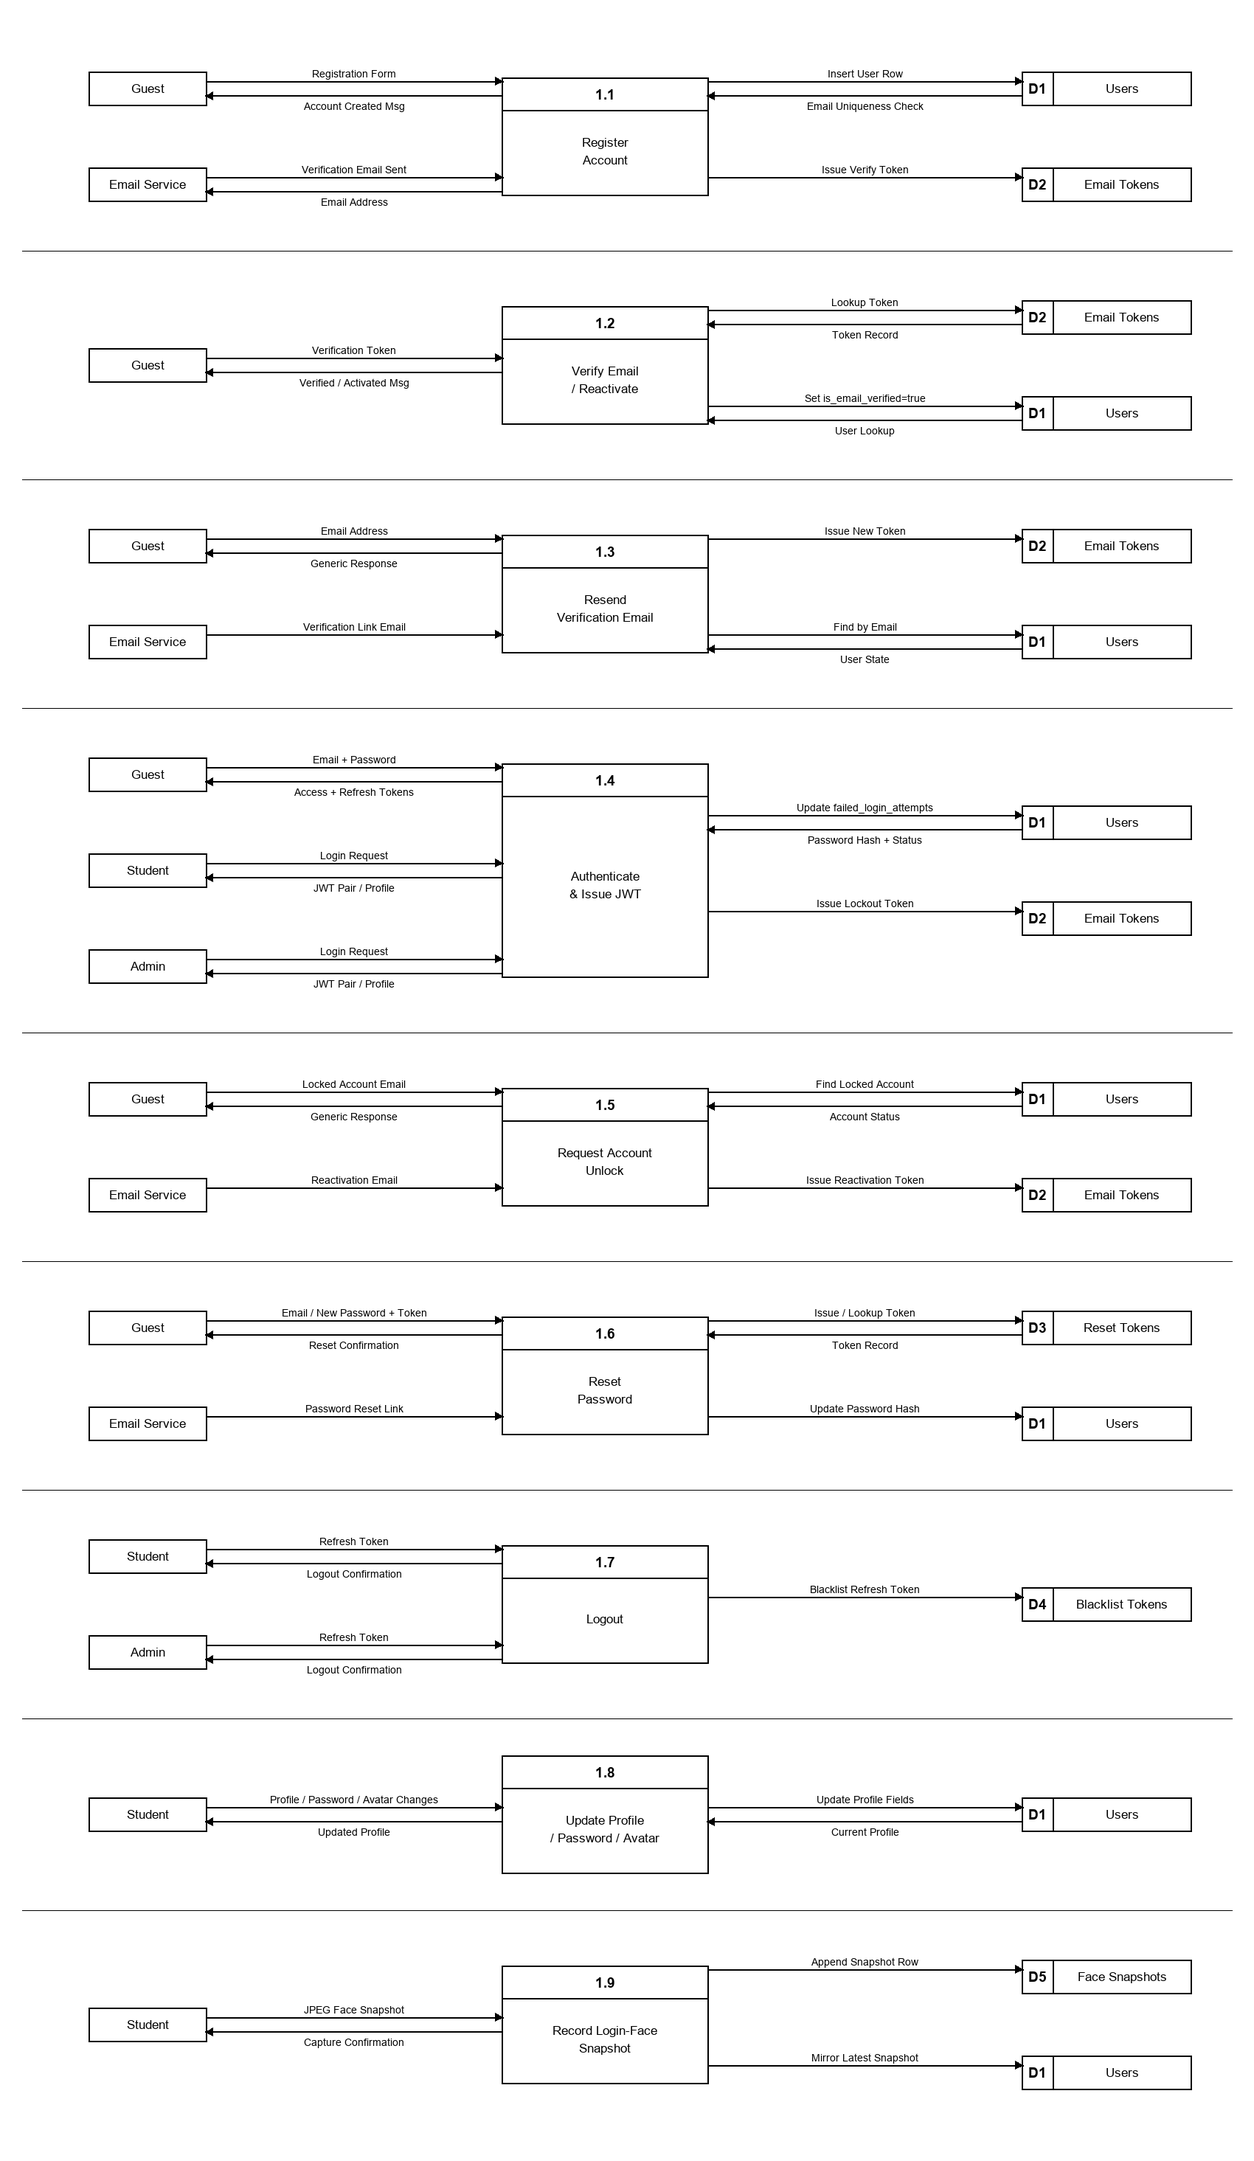
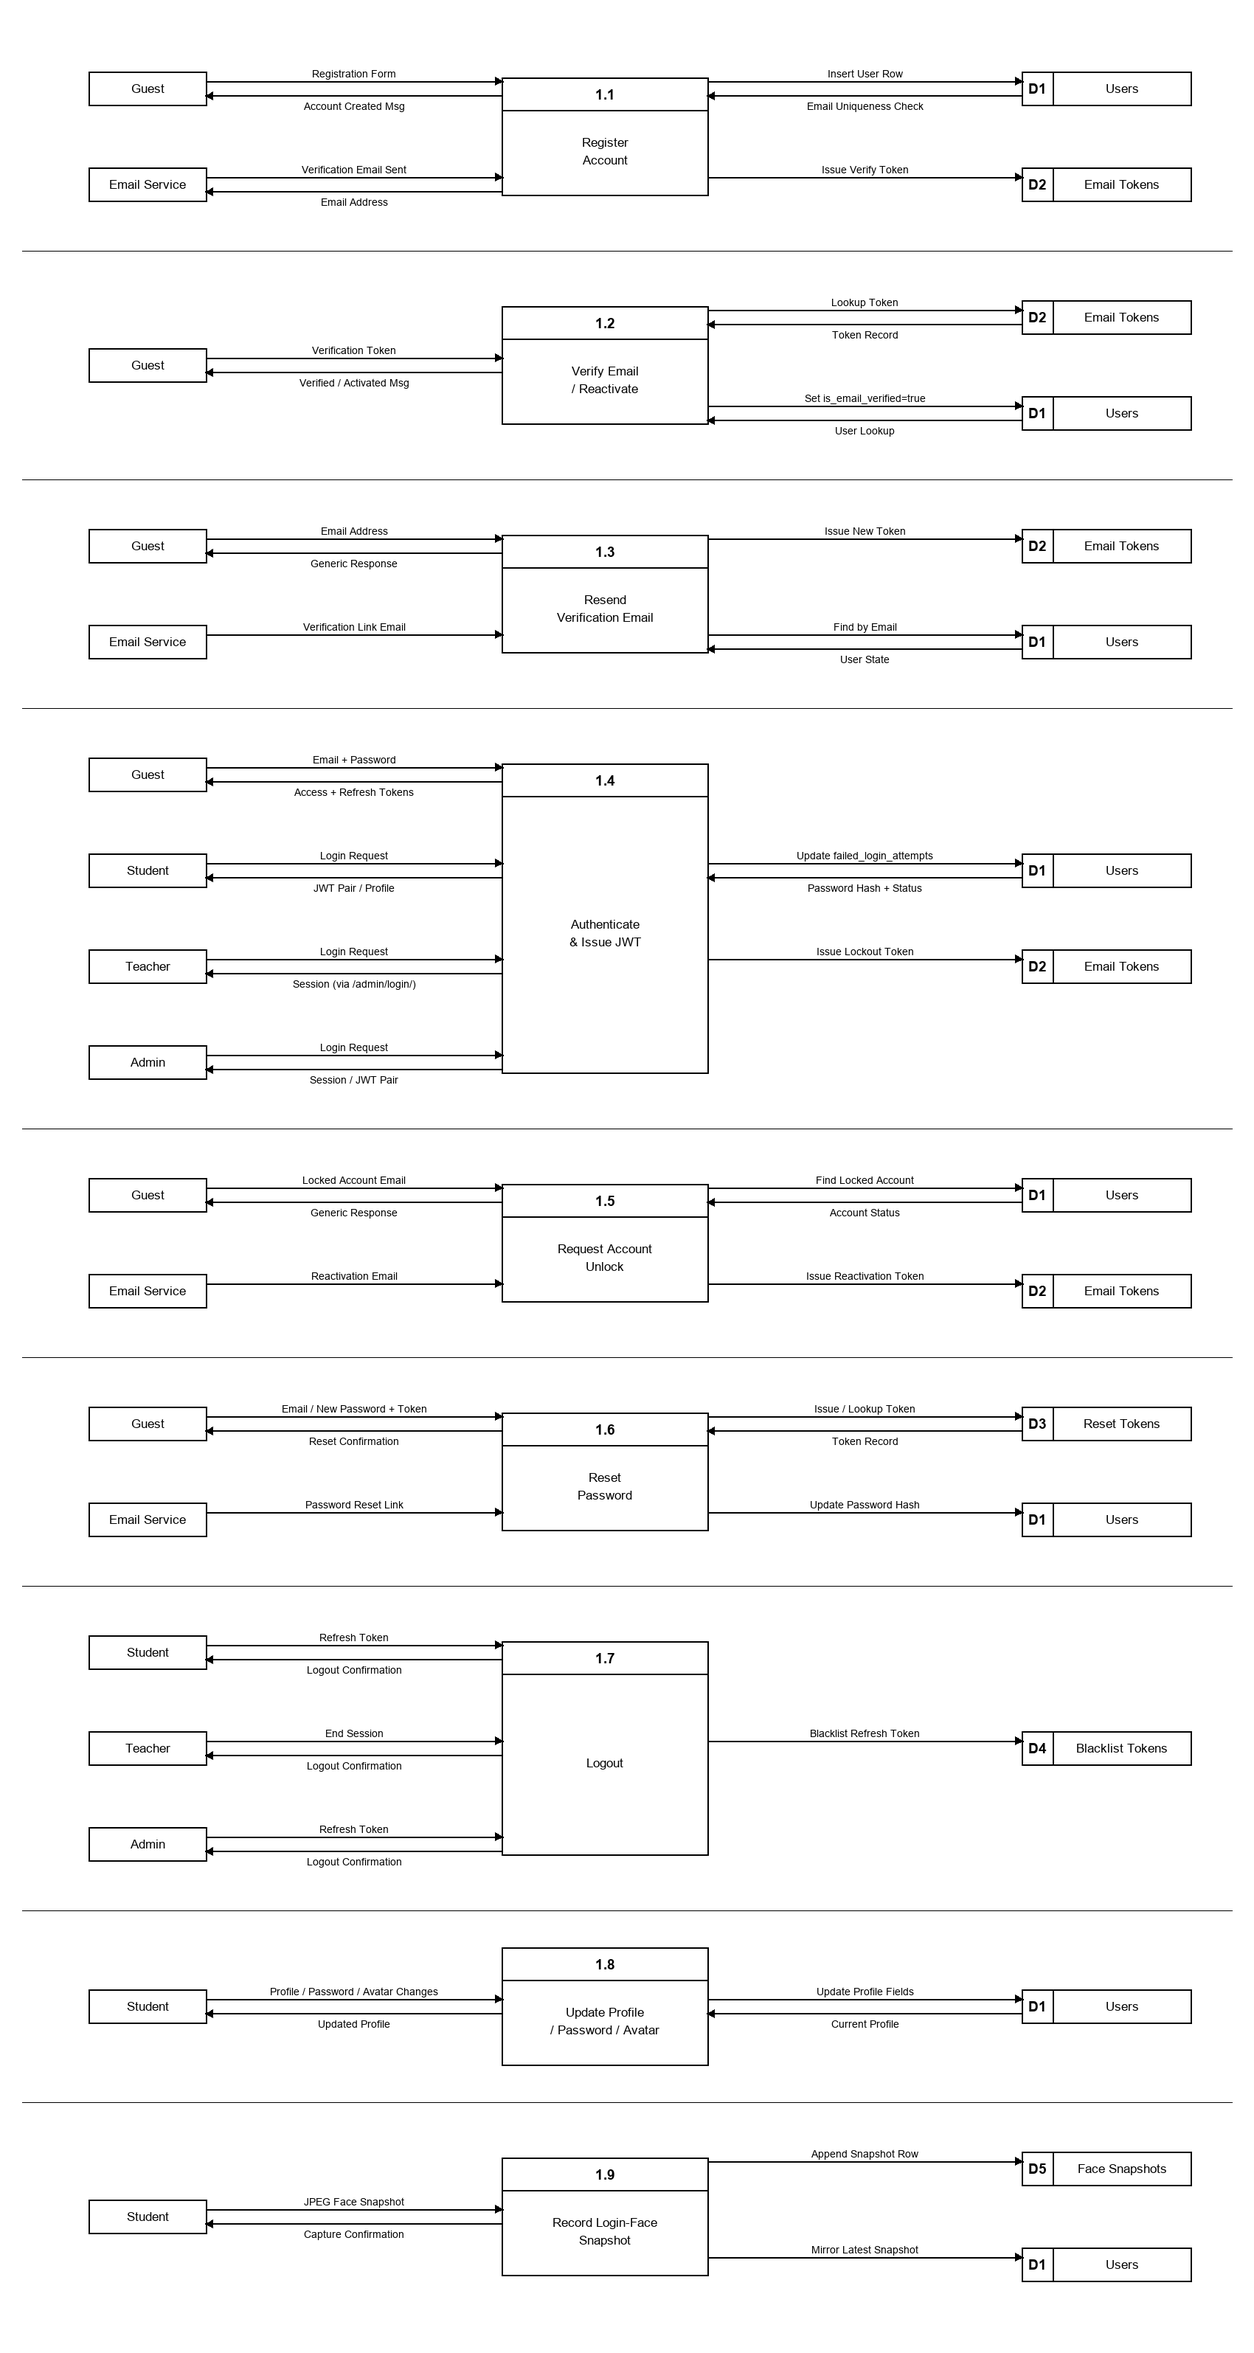
Add DFD Level 2 diagram for User Administration & Teaching processes
This commit introduces a new Python script that generates a Data Flow Diagram (DFD) for the decomposition of Process 7.0, focusing on User Administration and Teaching functionalities. The diagram outlines the interactions between Admin and Teacher roles, detailing processes such as user management, student creation, and report generation. The script utilizes the _dfd_lib to render the diagram and saves it as an image file.

diff --git a/backend/accounts/static/admin/codelogic-admin-form-selects.js b/backend/accounts/static/admin/codelogic-admin-form-selects.js
@@ -39,10 +39,14 @@
     openDropdown.classList.remove('cl-form-open');
     var trig = openDropdown.querySelector('.cl-form-trigger');
     if (trig) trig.setAttribute('aria-expanded', 'false');
-    // Restore z-index on the parent form-row (paired with the lift
-    // applied when we opened the menu - see trigger click handler).
     var row = openDropdown.closest('.form-row');
     if (row) row.classList.remove('cl-form-row-open');
+    // Put the menu back inside its .cl-form-dropdown wrapper, clear
+    // the fixed-position styles, and detach the scroll/resize listeners.
+    if (typeof openDropdown._restoreMenu === 'function') {
+      openDropdown._restoreMenu();
+      openDropdown._restoreMenu = null;
+    }
     openDropdown = null;
   }
 
@@ -207,6 +211,27 @@
       menu.appendChild(customRow);
     }
 
+    // ---- POSITIONING ----
+    // The form has a stack of <div class="form-row"> blocks. When the
+    // dropdown opens, its menu sits absolutely positioned BELOW the
+    // trigger - but the next form-row's content has been clipping or
+    // painting over the lower options. Belt-and-suspenders approach:
+    // when opening, we REPARENT the menu to <body> and switch it to
+    // position:fixed at the trigger's viewport coordinates. That
+    // takes it out of every ancestor's stacking context and overflow
+    // clip, so it can't possibly be hidden by a sibling row.
+    function positionMenu() {
+      var rect = trigger.getBoundingClientRect();
+      menu.style.position = 'fixed';
+      menu.style.top = (rect.bottom + 6) + 'px';
+      menu.style.left = rect.left + 'px';
+      menu.style.minWidth = rect.width + 'px';
+    }
+
+    function onScrollOrResize() {
+      if (wrap.classList.contains('cl-form-open')) positionMenu();
+    }
+
     trigger.addEventListener('click', function (e) {
       e.stopPropagation();
       var wasOpen = wrap.classList.contains('cl-form-open');
@@ -214,13 +239,30 @@
       if (!wasOpen) {
         wrap.classList.add('cl-form-open');
         trigger.setAttribute('aria-expanded', 'true');
-        // Lift the parent form-row so the popover paints OVER the
-        // next form-row (Department/etc) instead of being clipped.
-        // The CSS :has() selector handles this on modern browsers
-        // but we set an explicit class too for older browsers.
+        // Lift the parent form-row z-index too (legacy fallback,
+        // mostly redundant now that the menu lives on <body>).
         var row = wrap.closest('.form-row');
         if (row) row.classList.add('cl-form-row-open');
+        // Move the menu to <body> with fixed positioning so it
+        // floats above EVERYTHING. closeOpen() puts it back.
+        if (menu.parentNode !== document.body) {
+          document.body.appendChild(menu);
+        }
+        positionMenu();
+        window.addEventListener('scroll', onScrollOrResize, true);
+        window.addEventListener('resize', onScrollOrResize);
         openDropdown = wrap;
+        openDropdown._restoreMenu = function () {
+          window.removeEventListener('scroll', onScrollOrResize, true);
+          window.removeEventListener('resize', onScrollOrResize);
+          menu.style.position = '';
+          menu.style.top = '';
+          menu.style.left = '';
+          menu.style.minWidth = '';
+          if (menu.parentNode === document.body) {
+            wrap.appendChild(menu);
+          }
+        };
         var current = menu.querySelector('.cl-form-option-selected')
           || menu.querySelector('.cl-form-option');
         if (current) current.focus();
@@ -316,7 +358,14 @@
 
     document.addEventListener('click', function (e) {
       if (!openDropdown) return;
-      if (!openDropdown.contains(e.target)) closeOpen();
+      // The menu is detached and lives on <body> while open. So
+      // "inside the dropdown" = inside the wrapper OR inside the
+      // menu (which may not be a descendant of the wrapper anymore).
+      var menuEl = openDropdown.querySelector('.cl-form-menu')
+        || document.body.querySelector('.cl-form-menu');
+      if (openDropdown.contains(e.target)) return;
+      if (menuEl && menuEl.contains(e.target)) return;
+      closeOpen();
     });
     document.addEventListener('keydown', function (e) {
       if (e.key === 'Escape') closeOpen();

diff --git a/backend/accounts/static/admin/codelogic-admin.css b/backend/accounts/static/admin/codelogic-admin.css
@@ -909,7 +909,11 @@ fieldset.module .form-row.cl-form-row-open {
     0 12px 30px -10px rgba(0, 0, 0, 0.7),
     0 4px 12px -6px rgba(0, 0, 0, 0.5),
     0 0 0 1px rgba(124, 58, 237, 0.18);
-  z-index: 40;
+  /* Extremely high z-index so the menu paints above any sibling
+     form-row's content, even if some other stylesheet adds its own
+     stacking context to the rows. The form-row lift is the primary
+     fix; this is the belt-and-suspenders. */
+  z-index: 9999;
   display: none;
   animation: cl-form-menu-in 0.12s ease-out;
 }
@@ -919,7 +923,11 @@ fieldset.module .form-row.cl-form-row-open {
   to   { opacity: 1; transform: translateY(0); }
 }
 
-.cl-form-dropdown.cl-form-open .cl-form-menu {
+.cl-form-dropdown.cl-form-open .cl-form-menu,
+/* When the menu is reparented to <body> (so it floats above every
+   ancestor's stacking context), the JS sets inline position:fixed.
+   Match it here too so it shows. */
+body > .cl-form-menu {
   display: block;
 }
 
@@ -1073,21 +1081,32 @@ form#user_form > p:first-of-type,
  * live ruleset. These styles match the gamified feel of the
  * rest of the admin and the /register page's checklist UI.
  * ============================================================ */
+/* The replaced helptext sits below the input. Django's
+   `.aligned div.help` already applies `margin-left: 160px` +
+   `padding-left: 10px` so the help block lines up with the field
+   column - we MUST preserve that or the strength card will sit
+   ~10-25px to the LEFT of the input above it. Only the
+   border / callout styling from earlier needs unwinding. */
 .cl-pwd-helptext-replaced {
   background: transparent !important;
   border: 0 !important;
   border-left: 0 !important;
-  padding: 0 !important;
   color: inherit !important;
-  margin-top: 10px !important;
-  max-width: 560px !important;
+  margin-top: 8px !important;
+  /* Width = input max-width (460) + Django's padding-left (10)
+     so the inner strength card stays flush with the input's right edge. */
+  max-width: 470px !important;
+  width: 100% !important;
+  box-sizing: border-box !important;
 }
 
+/* Plain-text variant: no card surface, just the label / bar / rules
+   sitting on the page background. */
 .cl-pwd-strength {
-  background: #14142a;
-  border: 1px solid #2d2d44;
-  border-radius: 10px;
-  padding: 12px 14px;
+  background: transparent;
+  border: 0;
+  padding: 0;
+  box-sizing: border-box;
 }
 
 .cl-pwd-strength-label {

diff --git a/backend/templates/teachers/student_form.html b/backend/templates/teachers/student_form.html
@@ -58,10 +58,12 @@
     {% endif %}
   </div>
 
-  {# ===== REFERENCE / BASE PHOTO =====
+  {% comment %}
+     ===== REFERENCE / BASE PHOTO =====
      Required at create time; optional replacement at edit time. Either
      a regular file upload OR a live webcam snapshot (data URL written
-     into the hidden field by the inline script). #}
+     into the hidden field by the inline script).
+  {% endcomment %}
   <div class="tp-card">
     <h2 style="color:#fff;font-size:14px;font-weight:700;margin:0 0 4px 0;letter-spacing:0.4px;text-transform:uppercase">
       Reference photo {% if mode == 'new' %}<span style="color:#fca5a5">*</span>{% endif %}
@@ -226,11 +228,13 @@
     </div>
   </div>
 
-  {# Status (active / email-verified) is no longer in this form. It now
+  {% comment %}
+     Status (active / email-verified) is no longer in this form. It now
      lives on the detail page as action BUTTONS (Disable / Enable user,
      Verify / Unverify) - same pattern the admin uses. Saves on this
      page do NOT change status flags. Hidden inputs preserve the
-     current values so a save doesn't accidentally clobber them. #}
+     current values so a save doesn't accidentally clobber them.
+  {% endcomment %}
   <input type="hidden" name="is_active" value="{% if form.is_active %}on{% endif %}">
   <input type="hidden" name="is_email_verified" value="{% if form.is_email_verified %}on{% endif %}">
   {% endif %}

diff --git a/backend/templates/teachers/student_detail.html b/backend/templates/teachers/student_detail.html
@@ -10,8 +10,10 @@
          class="tp-btn alt" style="text-decoration:none">Print PDF (7d)</a>
       <a href="{% url 'teacher_student_edit' student.id %}" class="tp-btn" style="text-decoration:none">Edit</a>
 
-      {# Action buttons mirror the admin's pattern: explicit POST to flip
-         status flags, clear color coding for the destructive direction. #}
+      {% comment %}
+        Action buttons mirror the admin's pattern: explicit POST to flip
+        status flags, clear color coding for the destructive direction.
+      {% endcomment %}
       <form method="post" action="{% url 'teacher_student_toggle_active' student.id %}" style="display:inline"
             onsubmit="return confirm('{% if student.is_active %}Disable {{ student.email|escapejs }}? They will no longer be able to log in.{% else %}Re-enable {{ student.email|escapejs }} and let them log in again?{% endif %}');">
         {% csrf_token %}

diff --git a/docs/diagrams/draw_dfd_level2_7_admin_teaching.py b/docs/diagrams/draw_dfd_level2_7_admin_teaching.py
@@ -1,0 +1,106 @@
+"""DFD Level 2 - decomposition of Process 7.0 User Administration & Teaching.
+
+Sub-processes derived from accounts/admin.py (Django admin UserAdmin: role /
+status / gamification edits, bulk actions, CSV import, face-snapshot review),
+accounts/teacher_views.py (the /teacher/ portal: list / create / view / edit /
+toggle / reset-password / delete assigned students + scoped report PDFs), and
+core/urls.py (admin dashboard + superuser-only report PDFs).
+
+Two privileged actors:
+  * Teacher  - server-rendered /teacher/ portal, scoped to assigned students
+               (the student<->teacher M2M on the Users table).
+  * Admin    - Django admin, full reach over every user + content model.
+"""
+from pathlib import Path
+from _dfd_lib import render_dfd
+
+OUT = Path(__file__).parent / "04_dfd_level2_7_admin_teaching.png"
+
+render_dfd(
+    OUT,
+    title=("7.0", "User Administration & Teaching"),
+    rows=[
+        {
+            "proc_num": "7.1",
+            "proc_lines": ["Admin: Manage Users", "Roles & Status"],
+            "entities": [
+                ("Admin", "Edit Role / Status / Gamification, Bulk + CSV Import", "Users Saved"),
+            ],
+            "stores": [
+                ("D1", "Users", "Insert / Update (role, is_active, XP, teachers M2M)", "User Rows"),
+            ],
+        },
+        {
+            "proc_num": "7.2",
+            "proc_lines": ["Teacher: List /", "Search Students"],
+            "entities": [
+                ("Teacher", "Search + Year / Section Filter", "Assigned Student List"),
+            ],
+            "stores": [
+                ("D1", "Users", "Read Students via teachers M2M", "Scoped Student Rows"),
+            ],
+        },
+        {
+            "proc_num": "7.3",
+            "proc_lines": ["Teacher: Create Student", "(+ Reference Face)"],
+            "entities": [
+                ("Teacher", "New Student Form + Face Photo", "Student Created"),
+                ("Browser Camera", "Webcam / Upload JPEG", "Capture Trigger"),
+            ],
+            "stores": [
+                ("D1", "Users", "Create Student, Save base_face_photo, Auto-Assign Teacher", None),
+            ],
+        },
+        {
+            "proc_num": "7.4",
+            "proc_lines": ["View Student Detail", "& Face Review"],
+            "entities": [
+                ("Teacher", "Open Assigned Student", "Profile + Stats + Face Grid"),
+                ("Admin", "Open Any User", "Profile + Stats + Face Grid"),
+            ],
+            "stores": [
+                ("D1", "Users", "Read Profile + Reference Photo", "User Row"),
+                ("D5", "Login Face Snapshots", "Read Snapshot History", "Snapshot Rows"),
+                ("D10", "Quiz Attempts", "Read Last 20 Attempts", "Attempt Rows"),
+            ],
+        },
+        {
+            "proc_num": "7.5",
+            "proc_lines": ["Edit Student / Toggle", "Status / Reset Password"],
+            "entities": [
+                ("Teacher", "Profile / Stats Edits, Toggle, Reset", "Student Updated"),
+                ("Email Service", "Password Reset Link", None),
+            ],
+            "stores": [
+                ("D1", "Users", "Update Profile / Stats / is_active / verified", "User Row"),
+                ("D3", "Reset Tokens", "Issue Reset Token (rate-limited)", None),
+            ],
+        },
+        {
+            "proc_num": "7.6",
+            "proc_lines": ["Generate Quiz", "Report PDF"],
+            "entities": [
+                ("Teacher", "Scoped Report Request (mine / per-student)", "PDF Report"),
+                ("Admin", "All-Students Report Request", "PDF Report"),
+                ("PDF Engine", "Render Command", "PDF Bytes"),
+            ],
+            "stores": [
+                ("D10", "Quiz Attempts", "Read Completed Attempts (scoped)", "Attempt Rows"),
+                ("D1", "Users", "Resolve Student Names", "User Rows"),
+            ],
+        },
+        {
+            "proc_num": "7.7",
+            "proc_lines": ["Admin Dashboard", "& Trends"],
+            "entities": [
+                ("Admin", "Open Dashboard", "Totals + 30-Day Trend Charts"),
+            ],
+            "stores": [
+                ("D1", "Users", "Count + Signup Trend", "User Rows"),
+                ("D10", "Quiz Attempts", "Attempt Trend Series", "Attempt Rows"),
+            ],
+        },
+    ],
+)
+
+print(f"Wrote {OUT}")

diff --git a/docs/diagrams/draw_dfd_level2_2_content.py b/docs/diagrams/draw_dfd_level2_2_content.py
@@ -15,14 +15,14 @@ render_dfd(
     rows=[
         {
             "proc_num": "2.1",
-            "proc_lines": ["List Categories"],
+            "proc_lines": ["List Categories", "(Year-Scoped)"],
             "entities": [
                 ("Guest", "Category List Request", "Categories + Topic Counts"),
-                ("Student", "Category List Request", "Categories + Topic Counts"),
+                ("Student", "Category List Request", "Year-Scoped Categories + Counts"),
             ],
             "stores": [
                 ("D3", "Categories", "Read Active Categories", "Category Rows"),
-                ("D6", "Topics", "Aggregate Topic / Question Counts", "Topic Rows"),
+                ("D6", "Topics", "Filter by target_year_levels + Count", "Topic Rows"),
             ],
         },
         {
@@ -63,11 +63,12 @@ render_dfd(
             "proc_num": "2.5",
             "proc_lines": ["Admin: Manage", "Topics"],
             "entities": [
-                ("Admin", "Add / Edit / Delete Topic", "Topic Saved"),
+                ("Admin", "Edit Topic (+ language_version, year-levels)", "Topic Saved"),
             ],
             "stores": [
                 ("D6", "Topics", "Insert / Update / Delete", "Topic Row"),
                 ("D3", "Categories", "Resolve Parent Category", "Category Row"),
+                ("D12", "Certificates", "Auto-Create on New Topic (signal)", None),
             ],
         },
         {

diff --git a/docs/diagrams/draw_dfd_level2_1_auth.py b/docs/diagrams/draw_dfd_level2_1_auth.py
@@ -55,7 +55,8 @@ render_dfd(
             "entities": [
                 ("Guest", "Email + Password", "Access + Refresh Tokens"),
                 ("Student", "Login Request", "JWT Pair / Profile"),
-                ("Admin", "Login Request", "JWT Pair / Profile"),
+                ("Teacher", "Login Request", "Session (via /admin/login/)"),
+                ("Admin", "Login Request", "Session / JWT Pair"),
             ],
             "stores": [
                 ("D1", "Users", "Update failed_login_attempts", "Password Hash + Status"),
@@ -91,6 +92,7 @@ render_dfd(
             "proc_lines": ["Logout"],
             "entities": [
                 ("Student", "Refresh Token", "Logout Confirmation"),
+                ("Teacher", "End Session", "Logout Confirmation"),
                 ("Admin", "Refresh Token", "Logout Confirmation"),
             ],
             "stores": [

diff --git a/docs/diagrams/draw_dfd_level1.py b/docs/diagrams/draw_dfd_level1.py
@@ -6,7 +6,7 @@ from PIL import Image, ImageDraw, ImageFont
 HERE = Path(__file__).parent
 OUT = HERE / "04_dfd_level1.png"
 
-W, H = 1700, 2200
+W, H = 1700, 2580
 img = Image.new("RGB", (W, H), "white")
 draw = ImageDraw.Draw(img)
 
